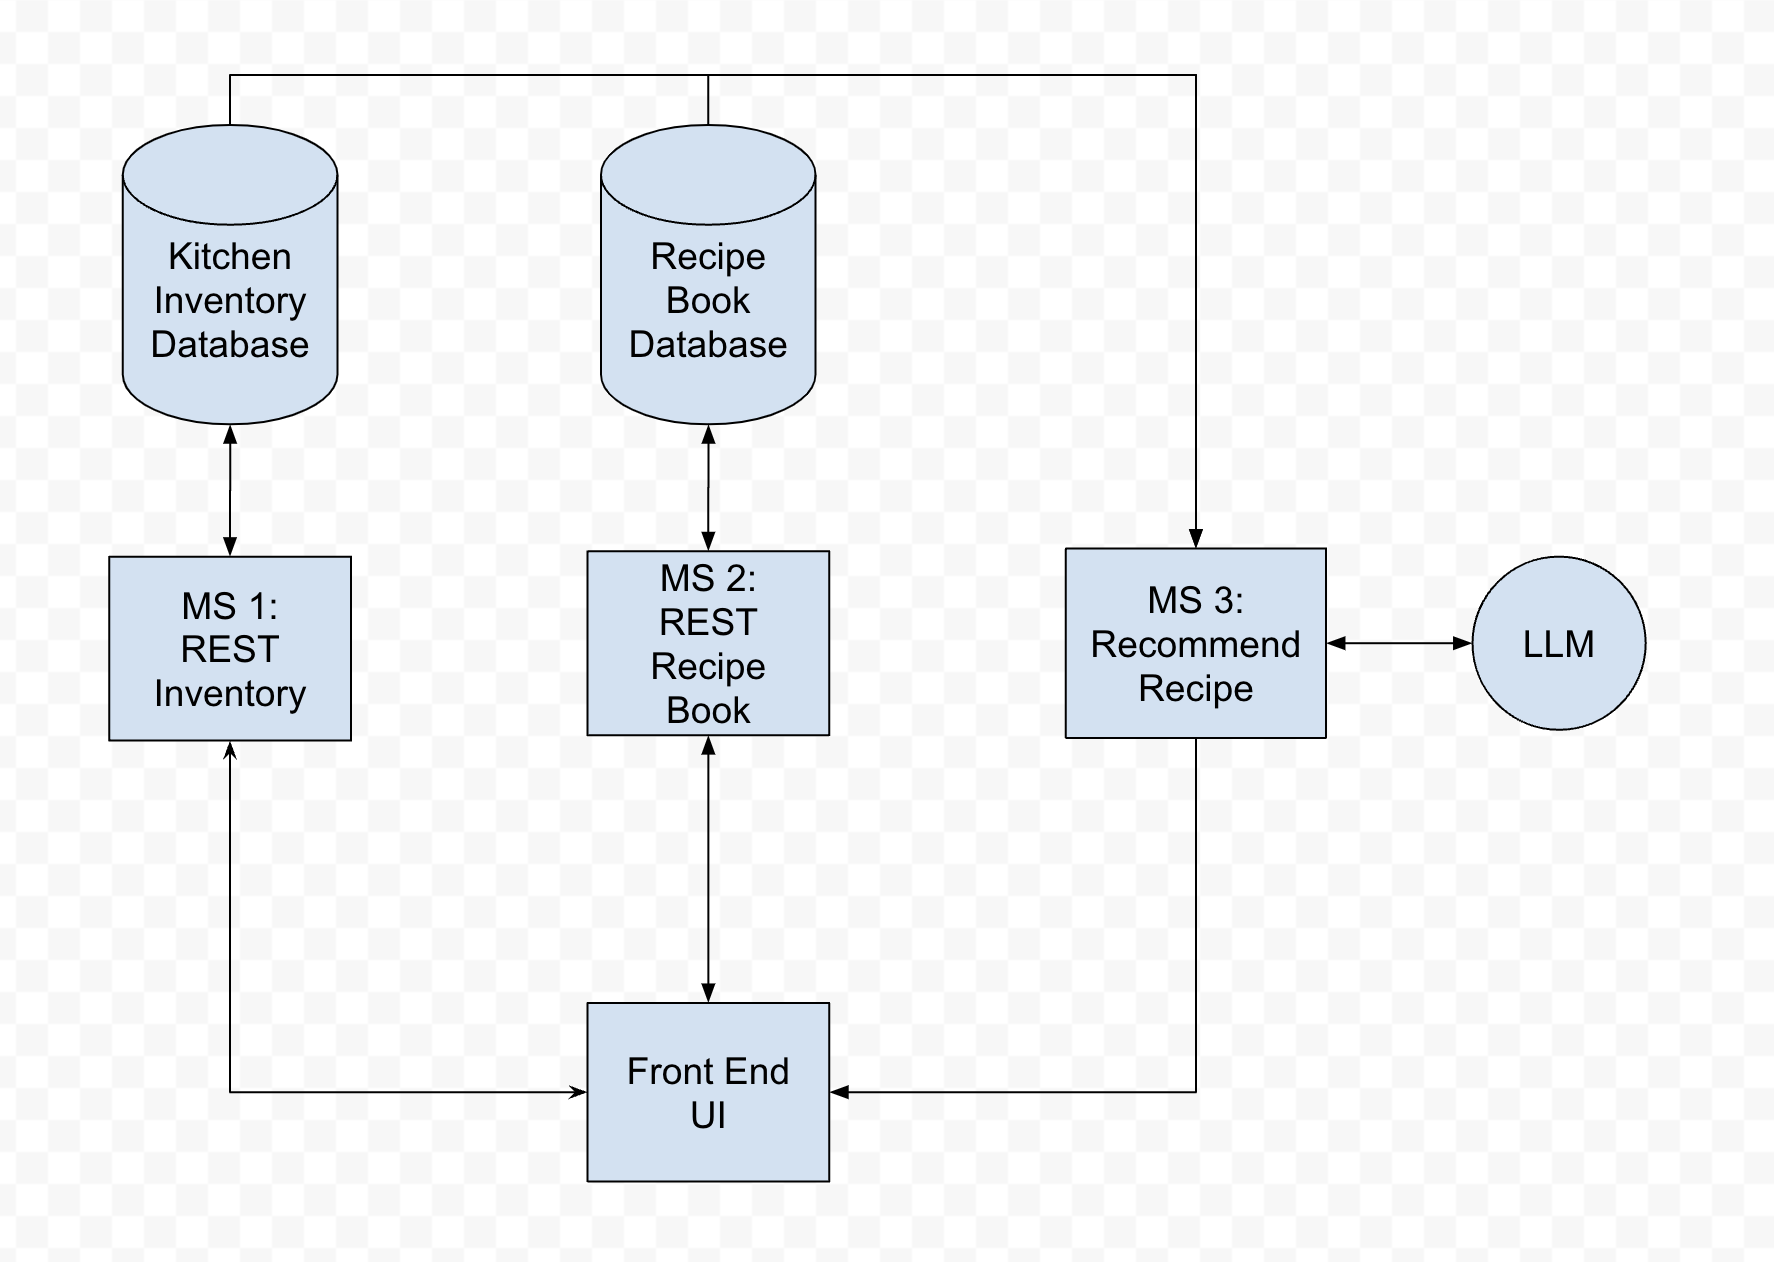
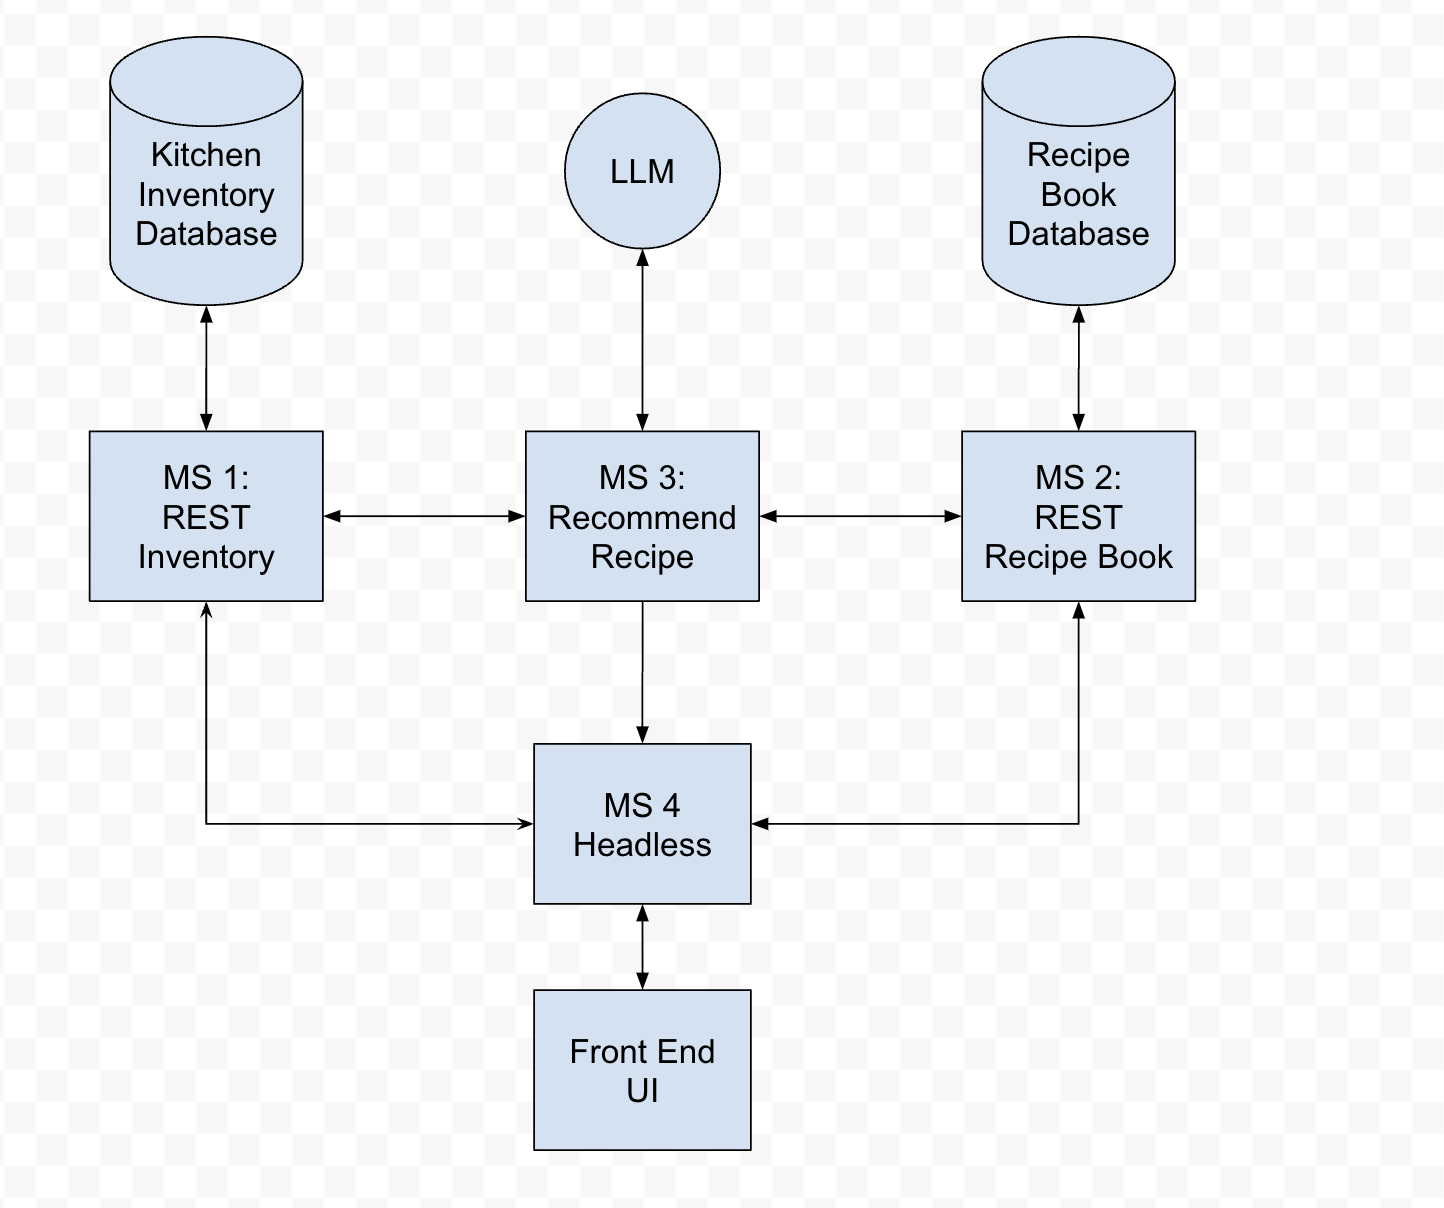
adjust README

diff --git a/README.md b/README.md
@@ -10,9 +10,10 @@ This project is a simple Recipe Book and Kitchen Inventory service. Recipes and 
 
 ## Possible Microservices
 
-- [ ] REST food item service, with CRUD operations for the current kitchen stock - George*
-- [ ] REST recipe service, with CRUD operations for the recipe book - Ibsa*
-- [ ] Recipe recommender based on current kitchen stock, which pulls recipes from SpoonacularAPI - Jeff*
+- [ ] MS 1: REST food item service, with CRUD operations for the current kitchen stock - George*
+- [ ] MS 2: REST recipe service, with CRUD operations for the recipe book - Ibsa*
+- [ ] MS 3: Recipe recommender based on current kitchen stock, which pulls recipes from SpoonacularAPI - Jeff*
+- [ ] MS 4: Headless MS 
 - [ ] Shopping list generator, based on current kitchen stock, possibly powered by an LLM
 
 Database module will store user data on the cloud
